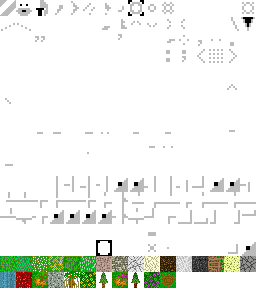
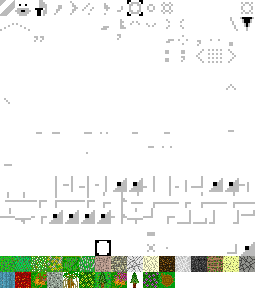
jobs

diff --git a/JOBS.md b/JOBS.md
@@ -7,11 +7,14 @@
 - [x] Work tileset bushes
 - [x] Work tileset stone
 - [x] Work tileset dirt
-- [ ] Fix trees
+- [ ] Improve trees (banyon)
+- [ ] Add reduced-noise grass to background of treese
 - [ ] Reduce noise/make tiles easier to see
+- [ ] Make rubble tile for each type of dirt, make wood log tile
+- [ ] Make 4-frame water animation
+- [x] Snow, ice other weather tiles.
 - [ ] Upscale tiles?
 - [ ] Make logo?
-- [x] Snow, ice other weather tiles.
 - [ ] Animal tiles
 - [ ] Explore Dwarf Fortress
 
@@ -34,7 +37,7 @@
 - [x] Build reusable UI stuff
 - [x] Add multiple screens (menu, game, pause)
 - [x] Improve overall UI (pause menu, mouse cursor, sidebar)
-- [x] Fix identification function
+- [ ] Fix identification function
 - [x] Fix missing tiles
 - [x] Generate beaches
 - [ ] Increase beach size
